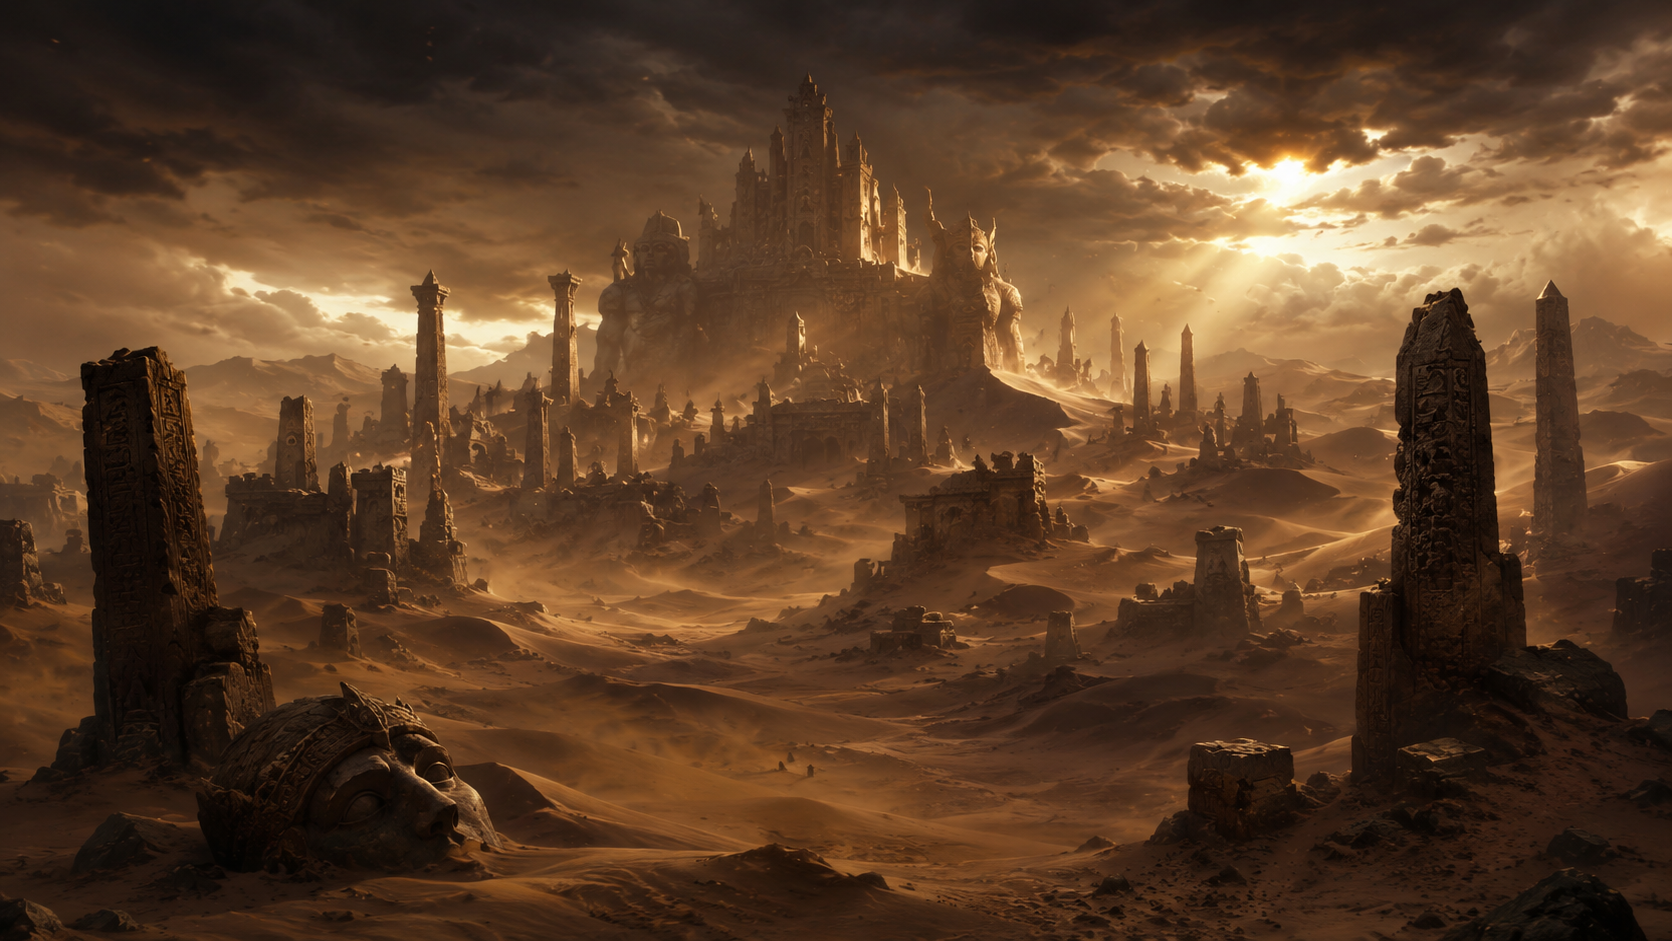
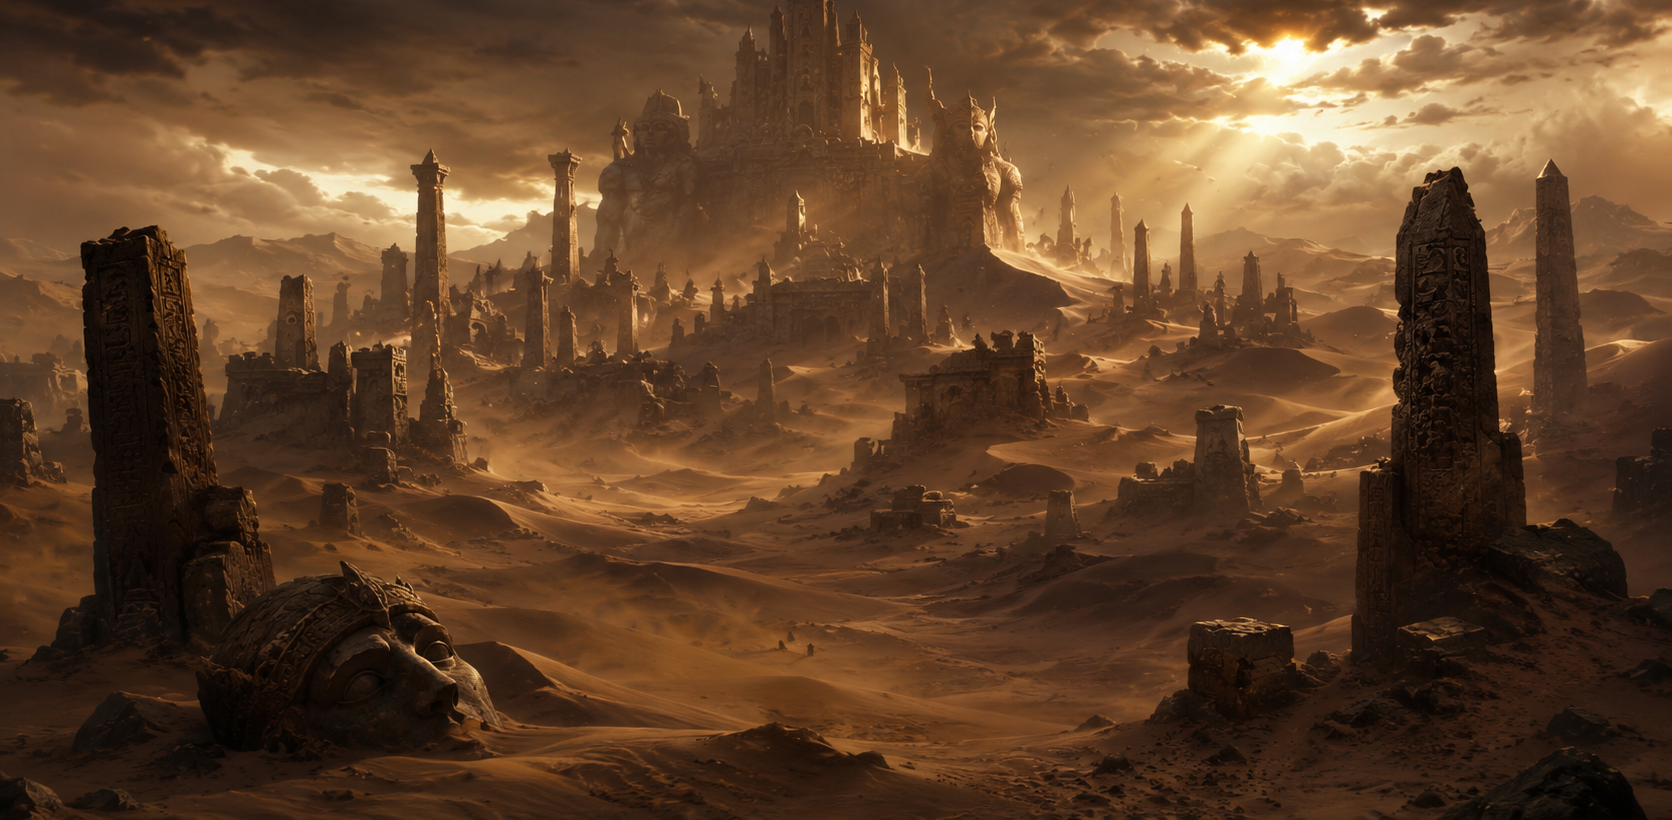
feat: adicionando funcionalidades

diff --git a/Biomas/DESERTO/style.css b/Biomas/DESERTO/style.css
@@ -3,7 +3,7 @@
 }
 body{
     background-image: 
-        linear-gradient(rgba(0, 0, 0, 0.3), rgba(0, 0, 0, 0.6)),
+        linear-gradient(rgba(0, 0, 0, 0.3), rgba(0, 0, 0, 0.4)),
         url('Assets/img/deserto.png');
     background-size: cover;    
     background-position: center;  
@@ -81,4 +81,14 @@ body{
     padding: 8px;
     outline: 3px solid #c8912a50;
     outline-offset: -6px;
+}
+
+.monstro-teste{
+    width: 200px;
+    height: 150px;
+
+    transition: transform 0.3s ease;
+}
+.monstro-teste:houver{
+    transform : 0.3s ease;
 }

diff --git a/Biomas/DESERTO/script.js b/Biomas/DESERTO/script.js
@@ -1,0 +1,10 @@
+const MonstroTeste  = document.querySelector('.monstro-teste');
+const overlay       = document.getElementById('monstroOverlay');
+const fechar        = document.getElementById('fecharOverlay');
+
+MonstroTeste.addEventListener('click', () => {
+    overlay.classList.add('ativo');
+});
+fechar.addEventListener('click', () => {
+    overlay.classList.remove('ativo');
+});